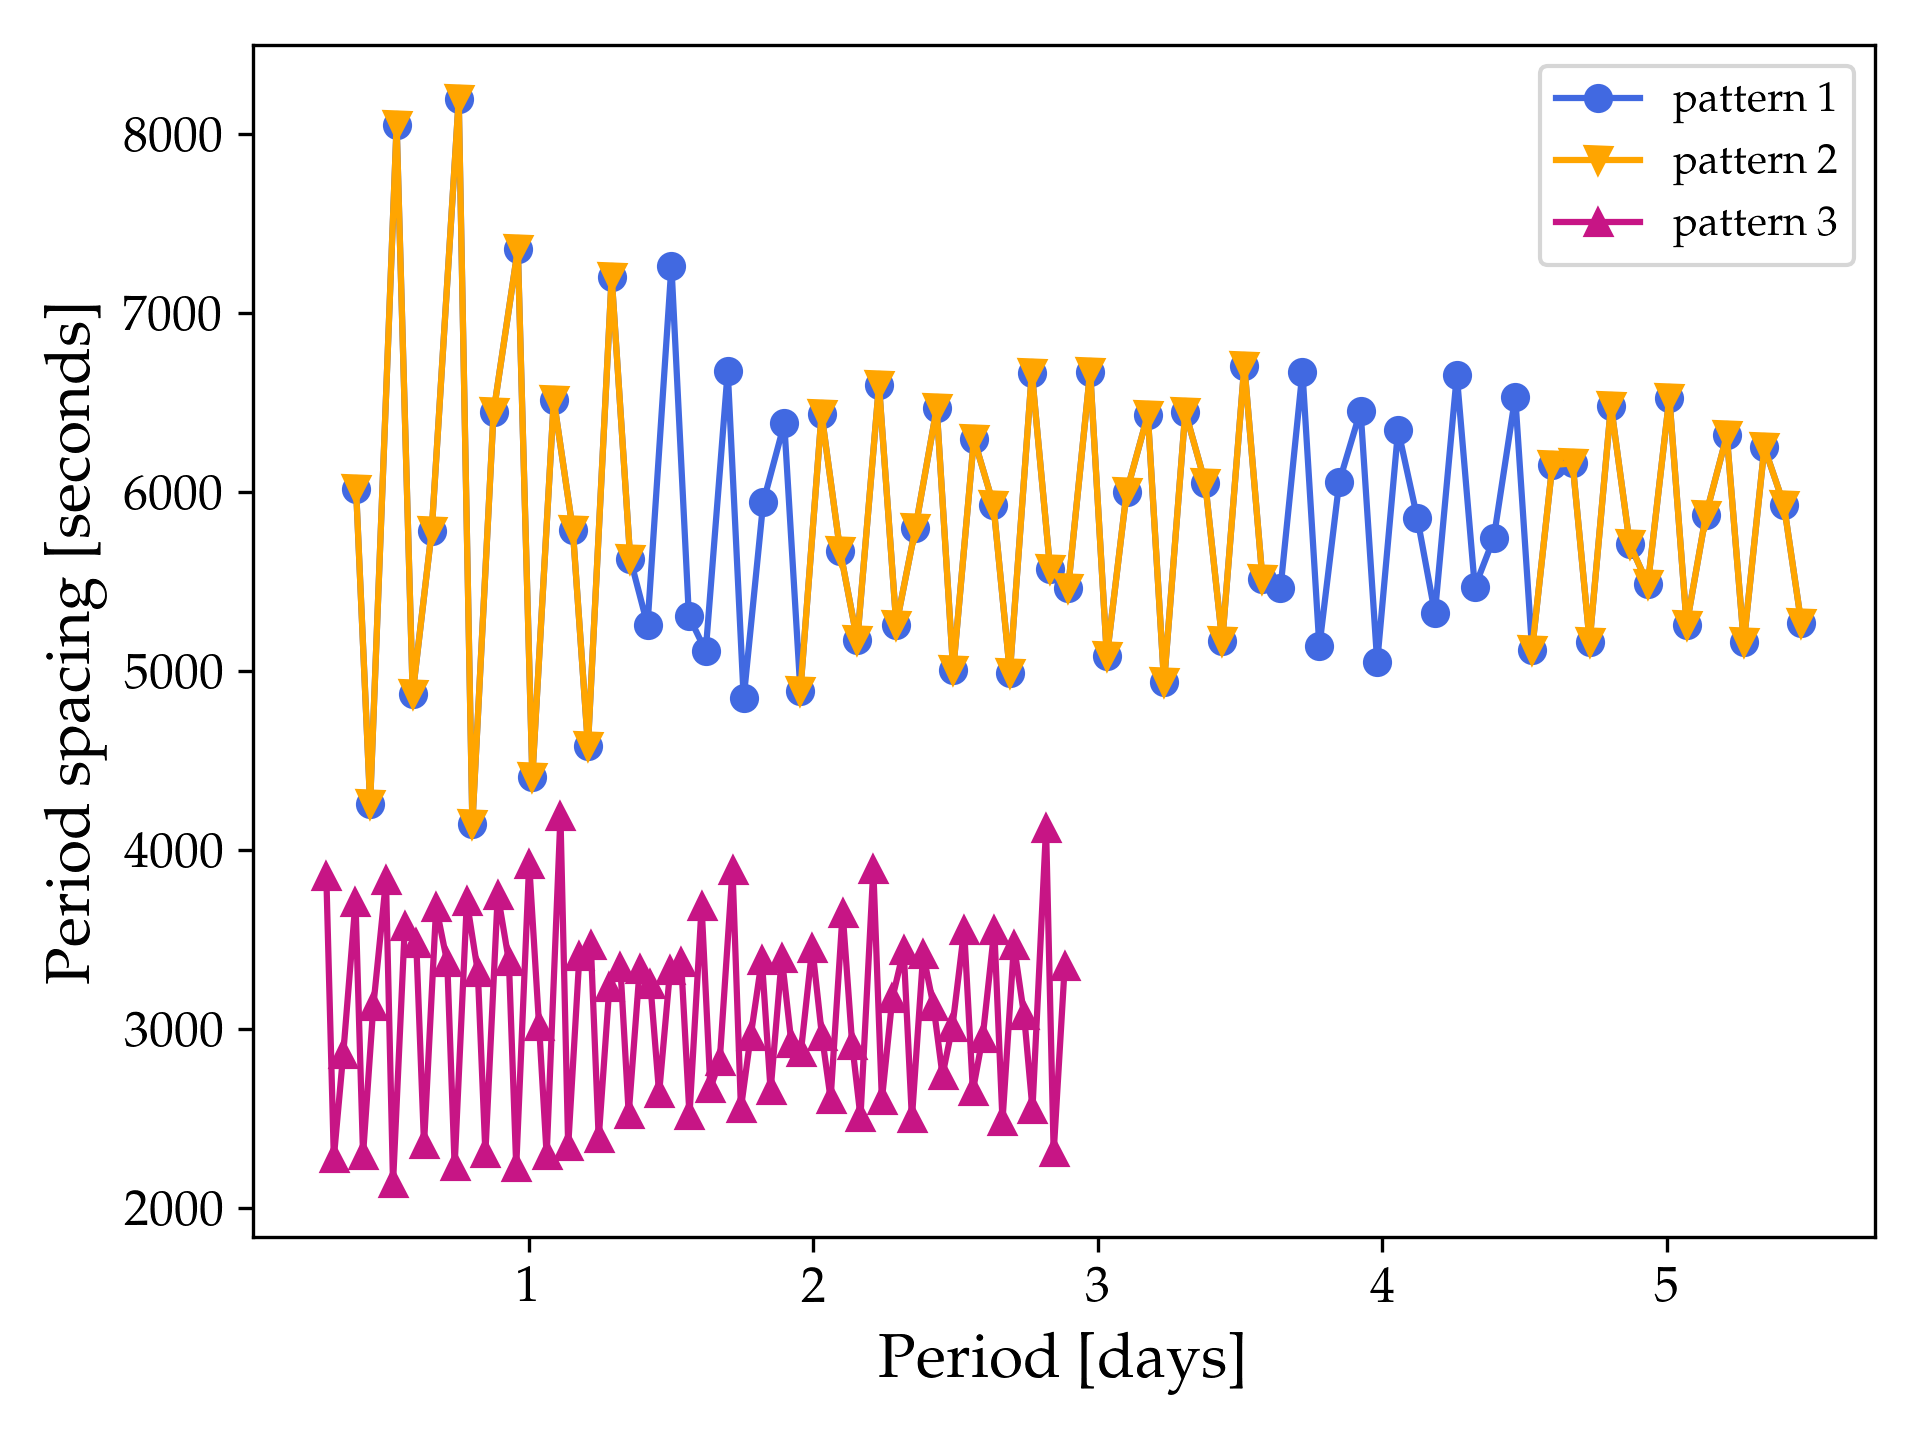
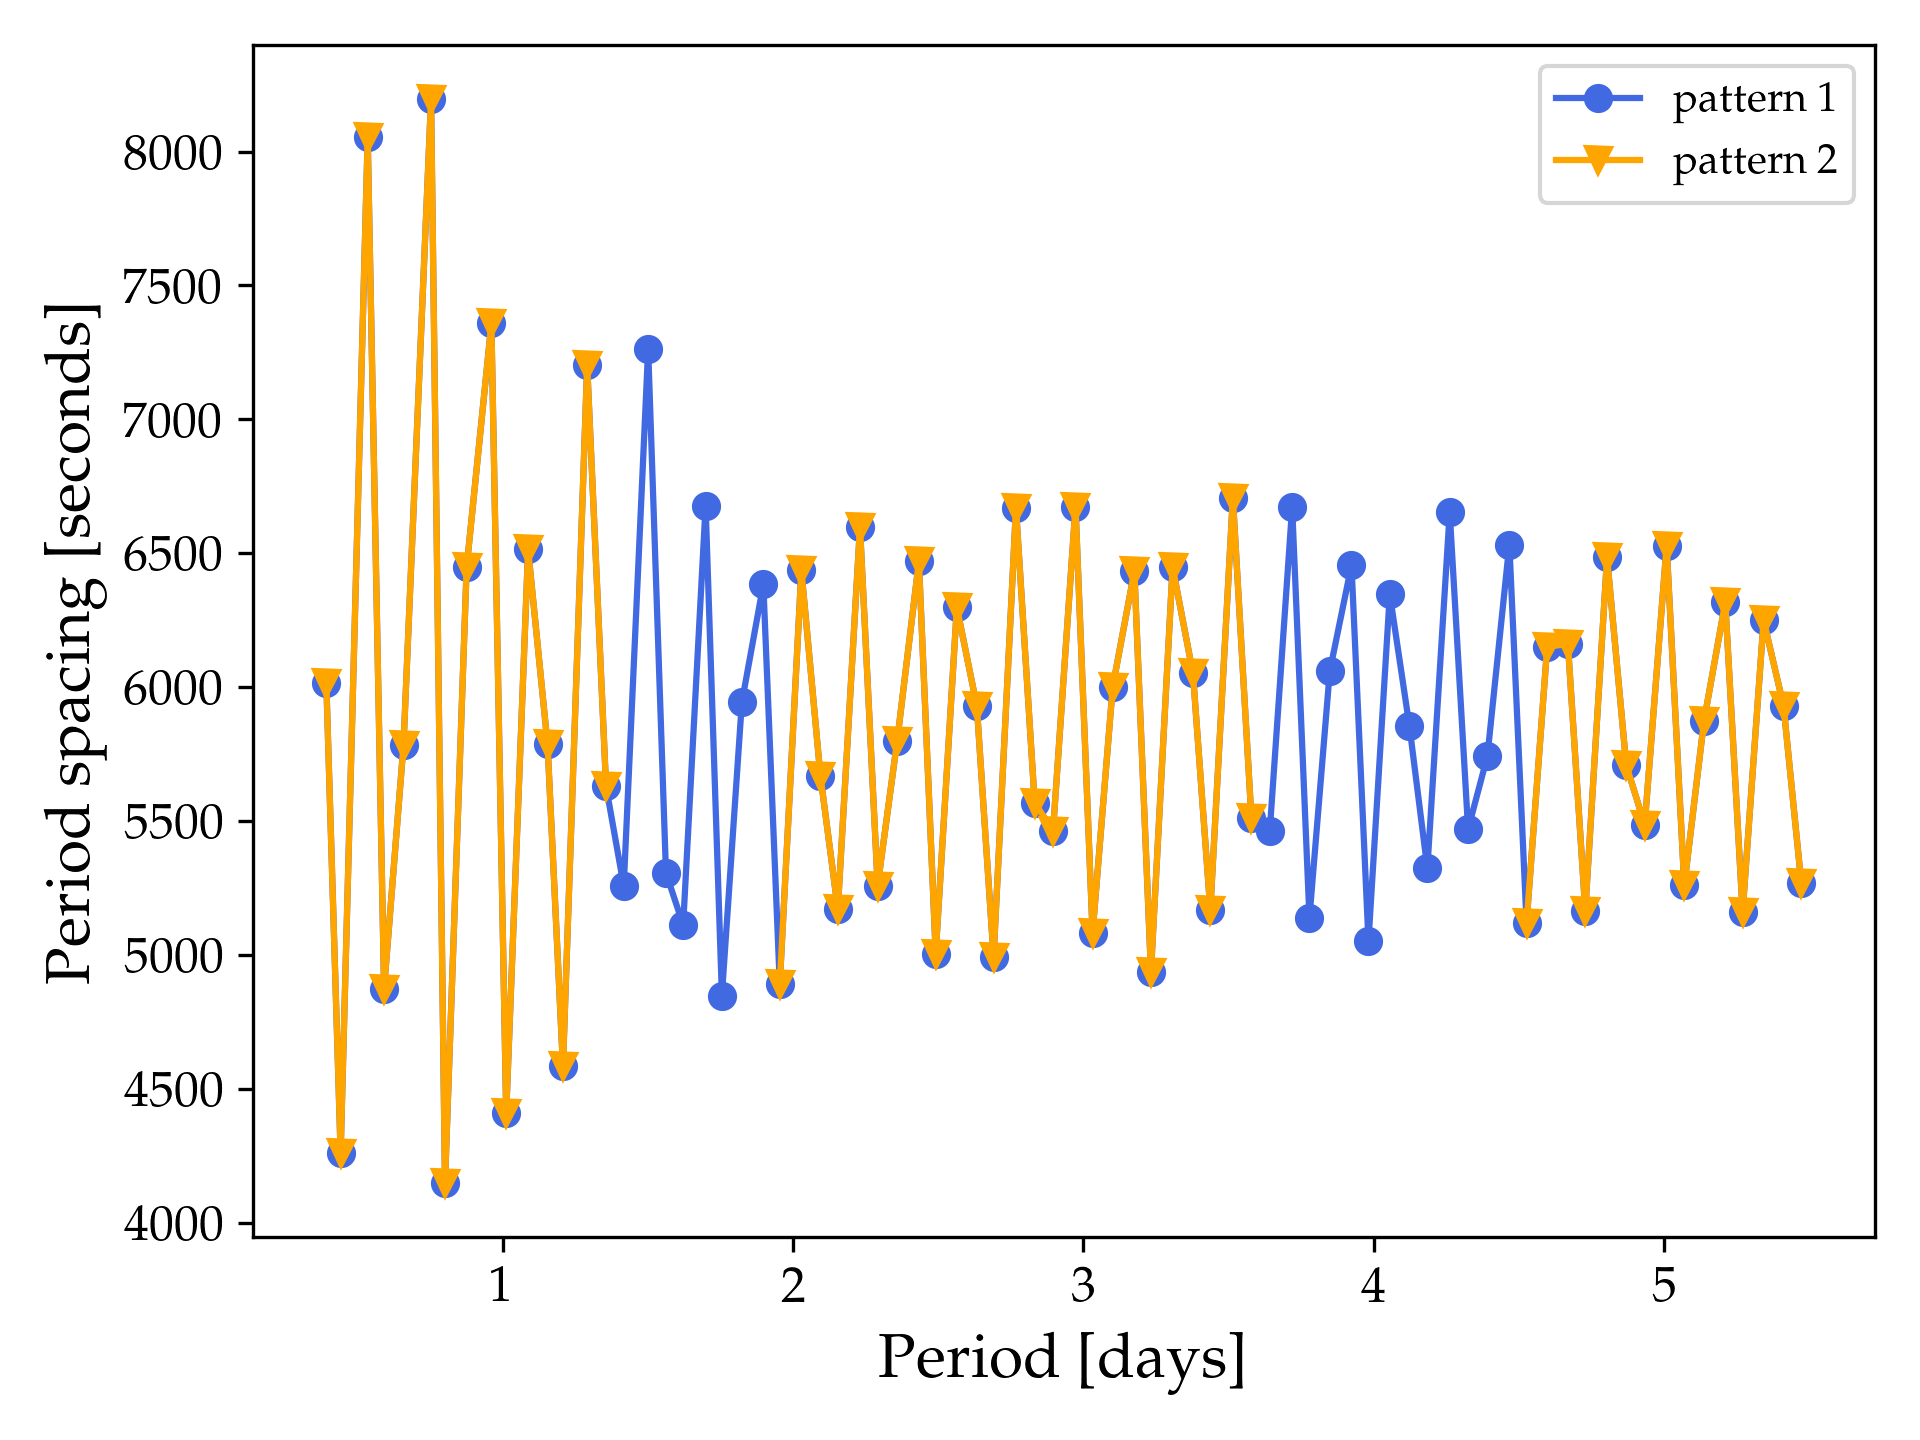
Including example figures for pattern plots

diff --git a/docs/Index.md b/docs/Index.md
@@ -92,6 +92,20 @@ A quicker way of plotting the patterns is to use the script `plot_pattern_script
   <p>python plot_pattern_script.py example_period_spacing_patterns.png example_gyre_file.txt example_gyre_file2.txt</p>
 </div>
 
+For this particular example the generated figure should look like this
+
+<div style="align: left; text-align:center;">
+    <img src="images/example_period_spacing_patterns.png" width="700" /> 
+</div>
+<br>
+
+whereas if you also include the third example pattern `example_gyre_file2.txt` then the figure should look like this:
+
+<div style="align: left; text-align:center;">
+    <img src="images/example_period_spacing_patterns_v2.png" width="700" /> 
+</div>
+<br>
+
 For sharing the `GYRE` summary files within your group we recommend creating a separate chat in the MESA Summer School 2023 Slack workspace with the members in your group/table.
 
 Once you are done with the all of the plotting, you can deactivate the conda environment using:
@@ -100,5 +114,3 @@ Once you are done with the all of the plotting, you can deactivate the conda env
 <div class="terminal">
   <p>conda deactivate</p>
 </div>
-
-For sharing the `GYRE` summary files within your group we recommend creating a separate chat in the MESA Summer School 2023 Slack workspace with the members in your group/table.
